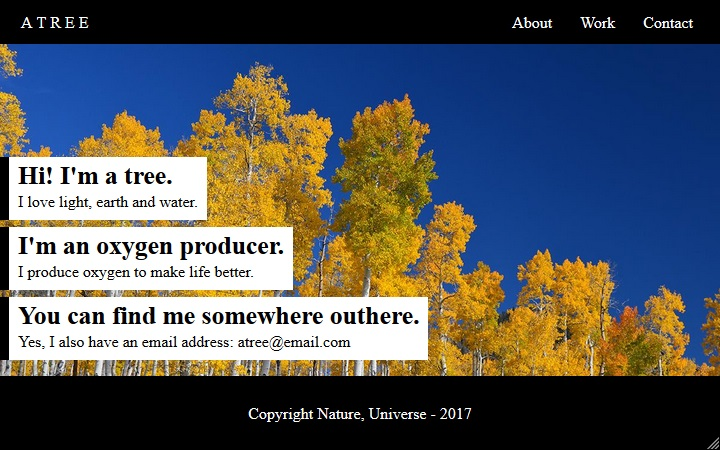
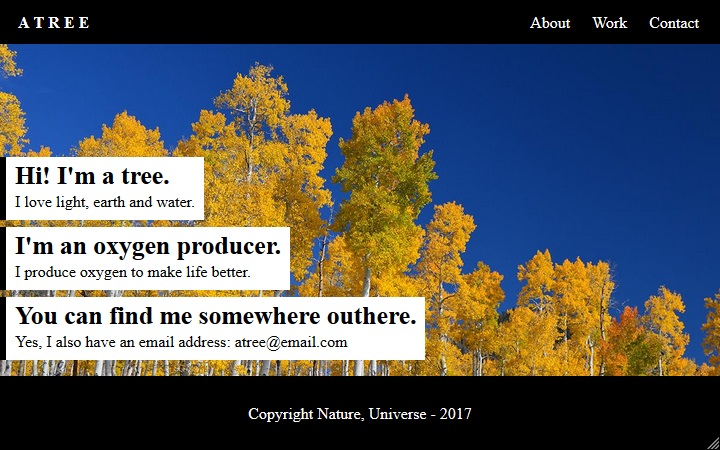
update

diff --git a/css/atree.css b/css/atree.css
@@ -21,7 +21,7 @@ nav {
    text-align: right;
 
    width: 100%;
-   padding: 0 15px;
+   padding: 0 12px;
 
    position: fixed;
    top: 0;
@@ -34,12 +34,14 @@ nav > a {
    text-decoration: none;
 
    display: inline-block;
-   padding: 12px;
+   padding: 12px 9px;
 
    color: white;
 }
 
 nav > a:first-child {
+   font-weight: bold;
+
    position: absolute;
    top: 0;
    left: 9px;
@@ -61,7 +63,7 @@ section {
    left: 0;
 
    background-color: white;
-   border-left: 9px solid black;
+   border-left: 6px solid black;
 }
 
 section:target {

diff --git a/_posts/1-html/2017-07-27-html-4-container-tags.md b/_posts/1-html/2017-07-27-html-4-container-tags.md
@@ -67,25 +67,26 @@ which container to use then simple
 ## HTML containers in action
 
 Let's take an example that we're creating a simple webpage which has some
-navigation links at top, some sections to introduce yourself, and a footer
-contains copyright text.
+`navigation` links at top, some `sections` to introduce yourself, and a
+`footer` contains copyright text.
 
-We also assume that the navigation bar will have dark color background and white text.  
-The sections will have nice background images.  
-And the footer will have dark color background and white text.  
+We also assume that the `navigation` bar will have dark color background and
+white text.  
+The `sections` will have nice background images.  
+And the `footer` will have dark color background and white text.  
 So, our HTML document should look like this:
 
 `Sample code:`
 <script src="https://gist.github.com/codenart/d24a7671123cdc6105d2295150fa7e2f.js"></script>
 
 `Result:`
-![a tree](/images/html-4/atree.jpg)
+![credit to Psyperl](/images/html-4/atree.jpg)
 
 Does it work?  
 No? :D  
 I'm sorry. That was my bad. :D  
 I've not told you something about container tags. They are simply used to group
-other HTML elements and have no effect on the output.
+other HTML elements and produce no effect on the output.
 
 Let's add this line of code right before the `<nav>`, save file and refresh your
 web browser again:
@@ -184,4 +185,4 @@ Our tutorial about HTML containers has finished! It's time for ~~css~~
 > everything in absolute abundance and beauty.  
 > \_\_Sadhguru Wisdom
 
-[Start learing CSS](https://codenart.github.io/beauty/ "int").
+[Start learing CSS here!](https://codenart.github.io/beauty/ "int").
